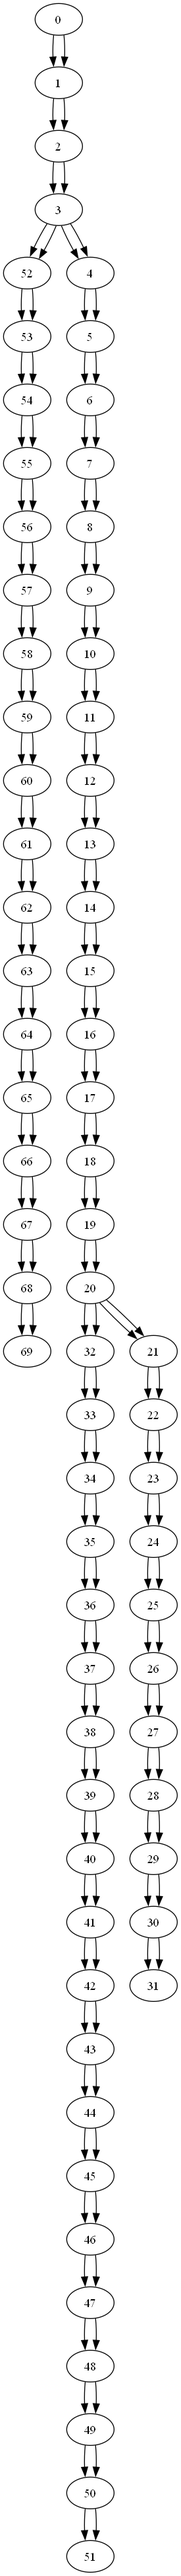
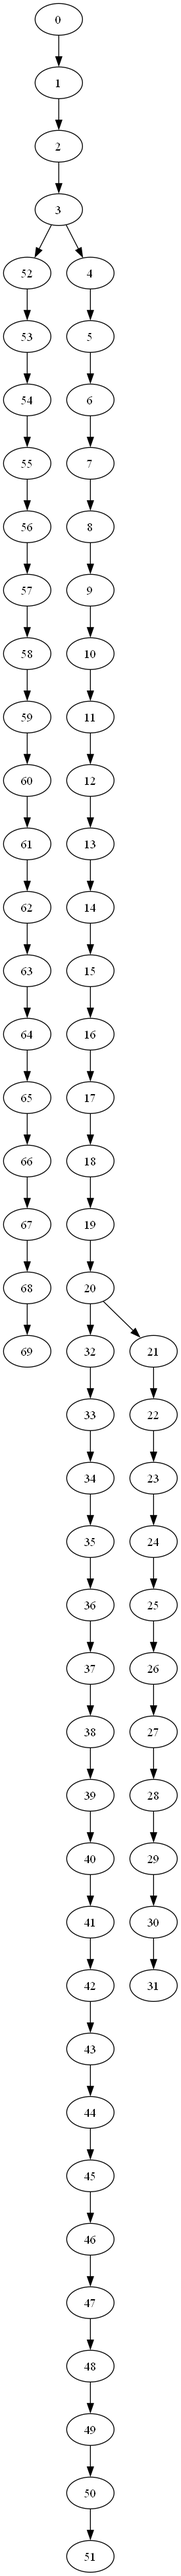
fixed problem with double traversal, no changes to structure only use of iterator function

diff --git a/Code/ComplexParser.py b/Code/ComplexParser.py
@@ -439,21 +439,16 @@ def main():
 
     # just testing for now
     node = lexer(sys.argv[1])
-
     edges = []
 
-    def whistle(n):
-        for i in n.children:
-            edges.append((str(n.id), str(i.id)))
-        return None
+    def ditto(n):
+        for j in n.children:
+            edges.append((n.id, j.id))
 
-    traveler = NodeTraverse(whistle, root=node)
-    traveler = traveler.__iter__()
+    traveler = NodeTraverse(ditto, root=node)
 
     for i in traveler:
         pass
-
-    render_graph(edges)
 
     # testNodeTraverse(node)
     # testStateTraverse(node)
@@ -481,7 +476,7 @@ def main():
 
     # edges = list(set(edges))
 
-    # render_graph(edges, nodesin)
+    render_graph(edges)
 
 
 if __name__ == "__main__":
